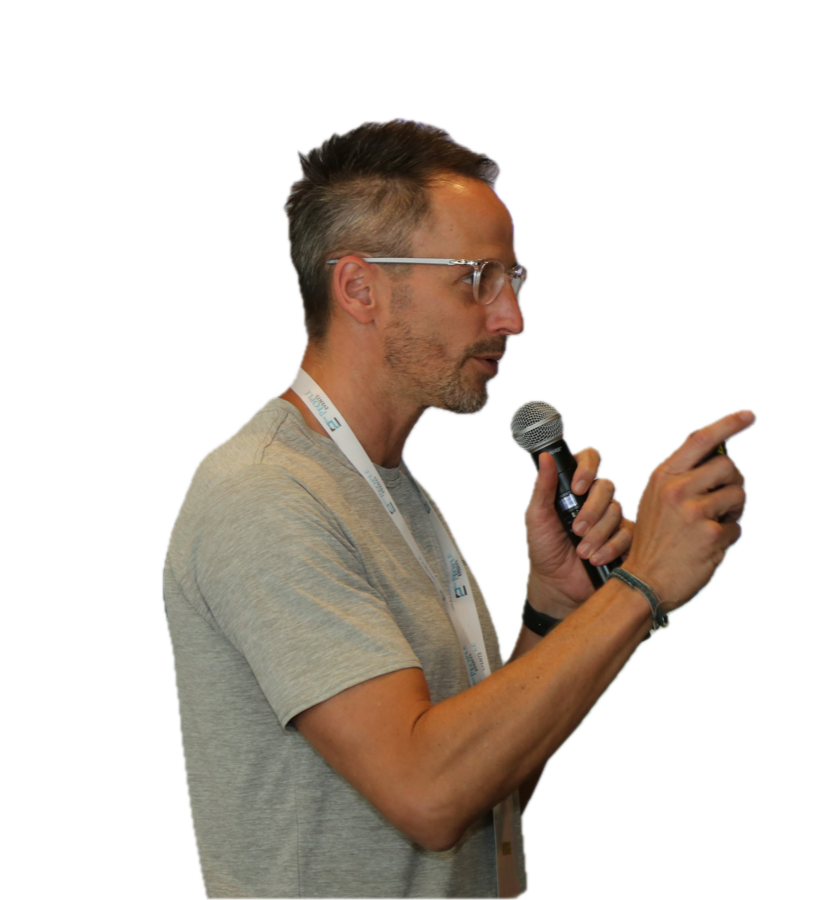
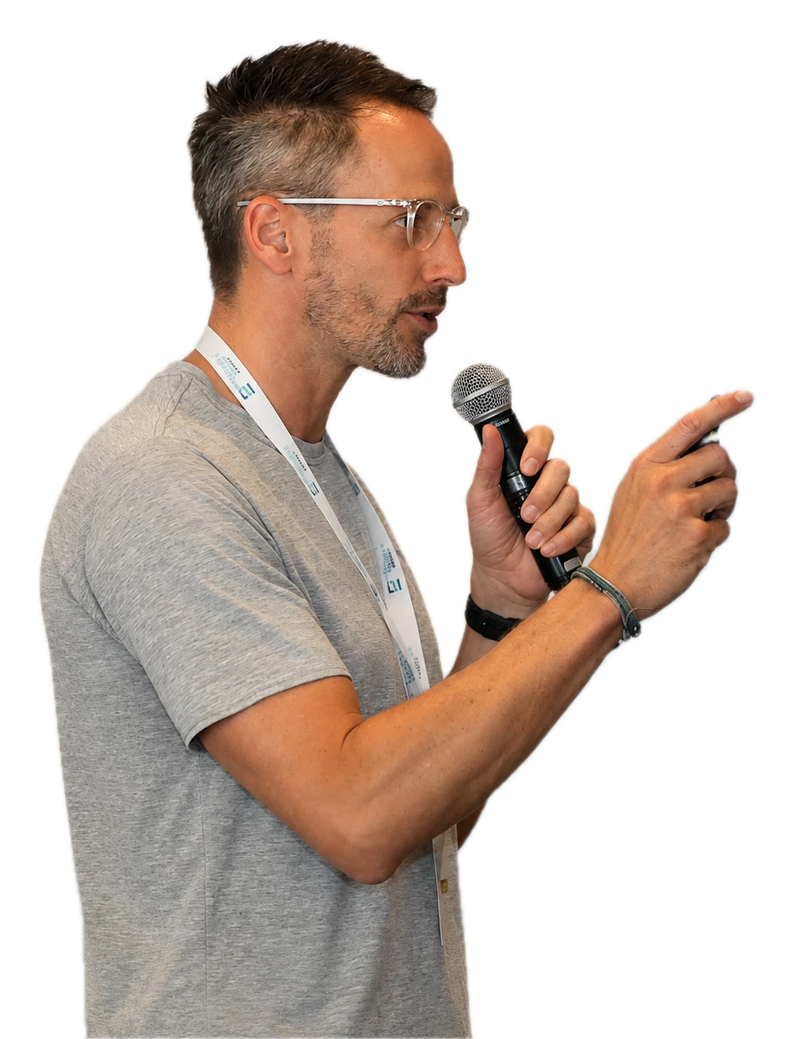
Swap about-me photo for retouched cutout and match hero fade

diff --git a/styles.css b/styles.css
@@ -137,8 +137,8 @@
   @media (max-width:780px){.about-grid{grid-template-columns:1fr}}
   .about-photo img{
     width:100%;height:auto;display:block;border-radius:28px;
-    -webkit-mask-image:linear-gradient(to bottom, black 74%, transparent 96%);
-    mask-image:linear-gradient(to bottom, black 74%, transparent 96%);
+    -webkit-mask-image:linear-gradient(to bottom, black 90%, rgba(0,0,0,.75) 95%, rgba(0,0,0,.3) 98%, transparent 100%);
+    mask-image:linear-gradient(to bottom, black 90%, rgba(0,0,0,.75) 95%, rgba(0,0,0,.3) 98%, transparent 100%);
   }
   .credential-note{background:var(--paper-alt);border:1px solid rgba(232,180,140,.4);border-radius:18px;padding:18px 22px;font-size:.9rem;color:var(--ink-soft);margin:22px 0}
   .credential-note b{color:var(--ink)}
